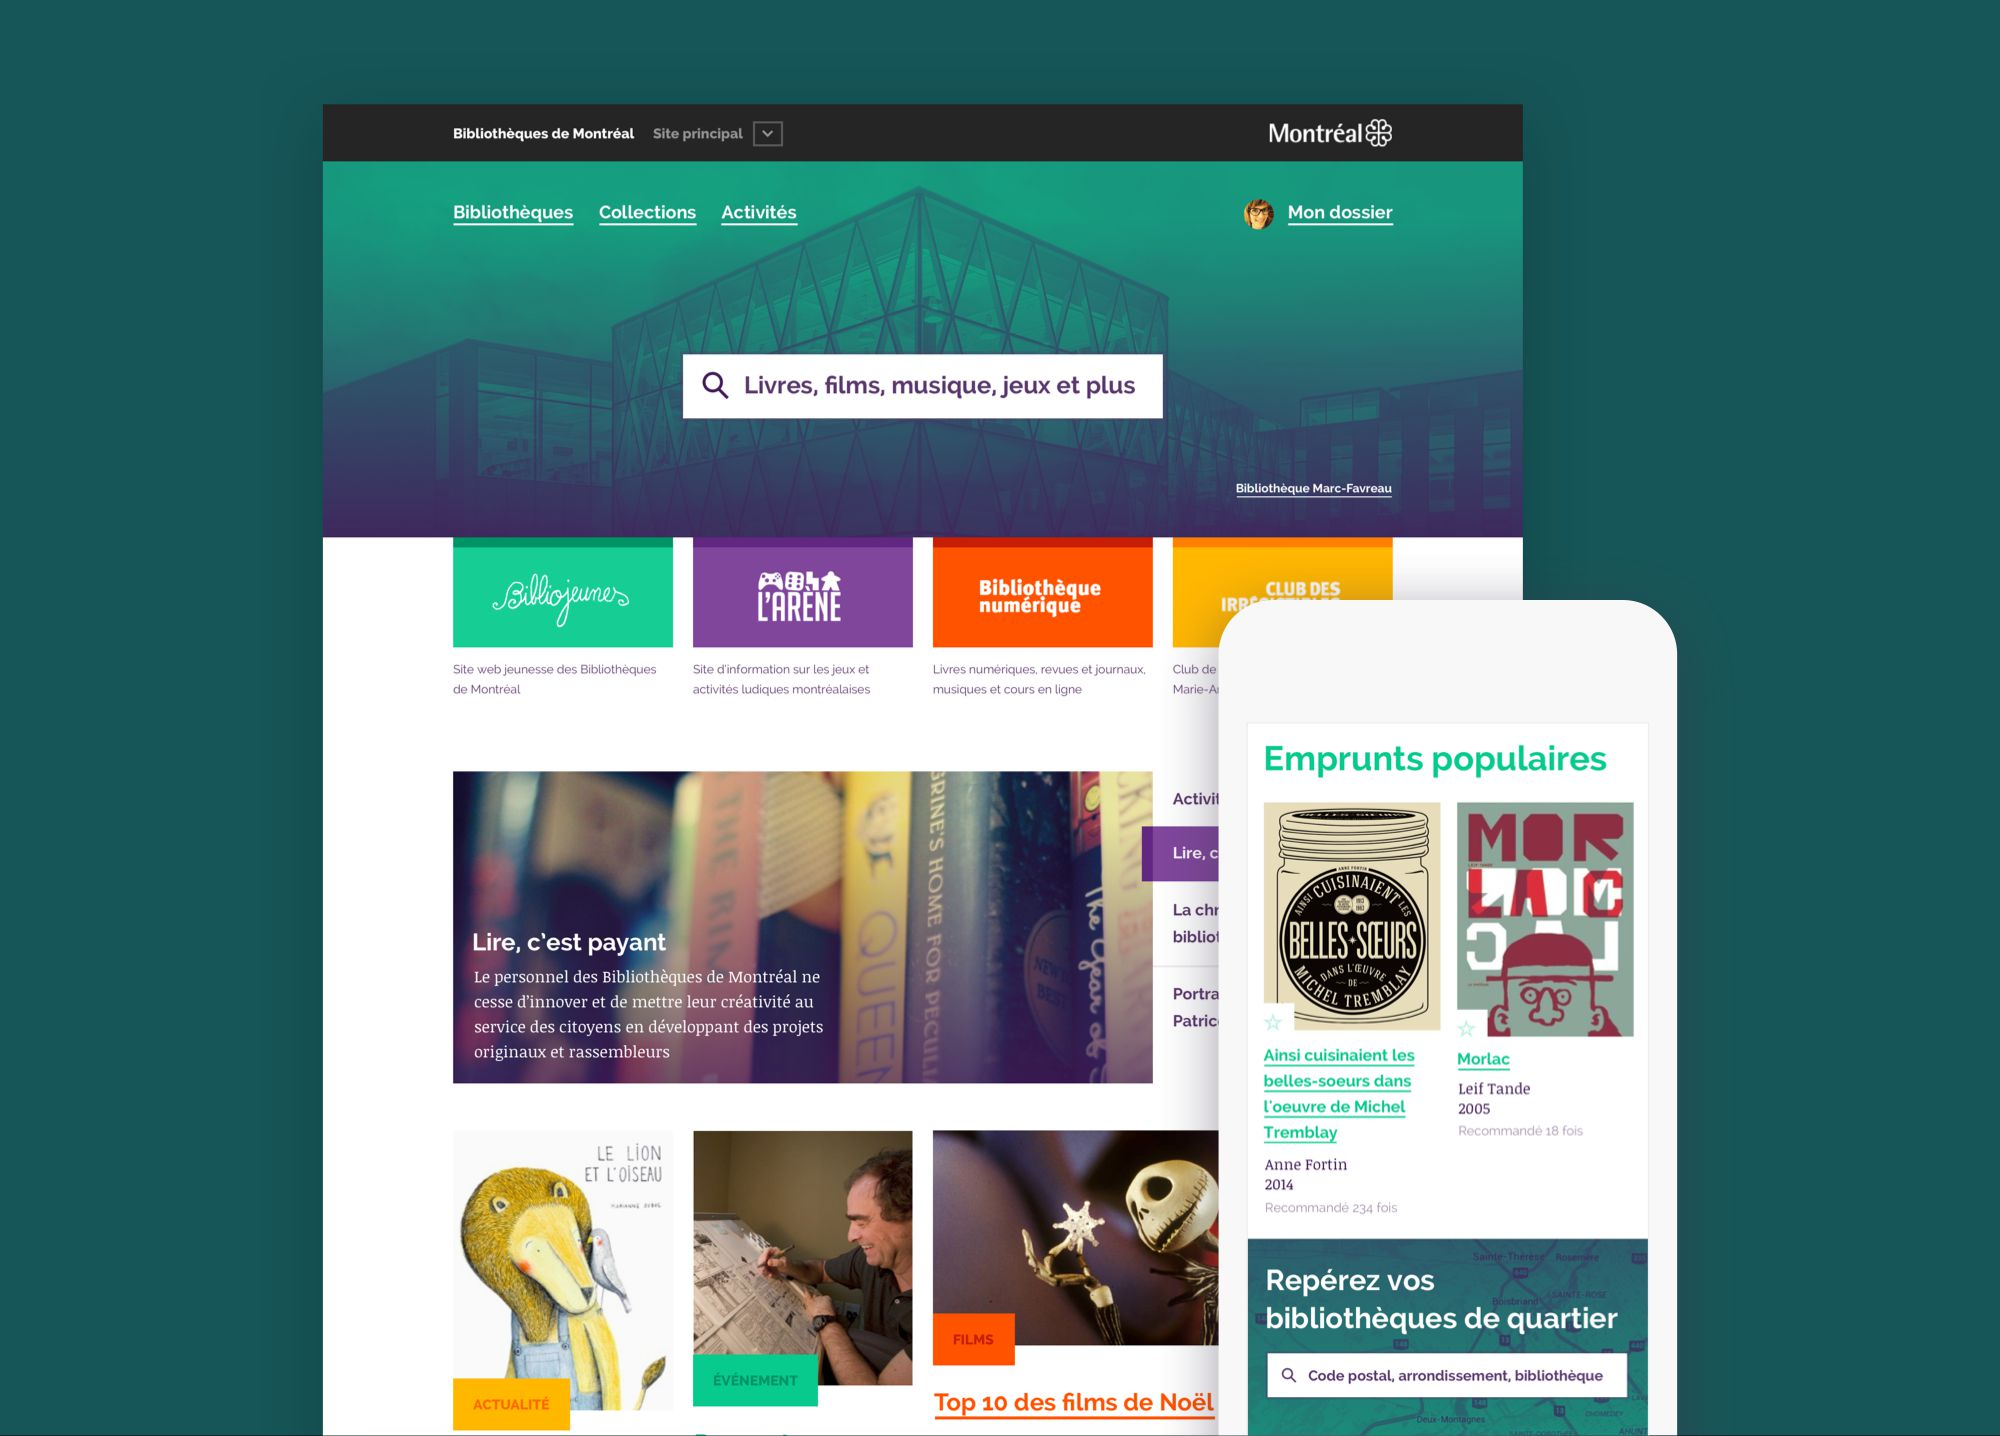
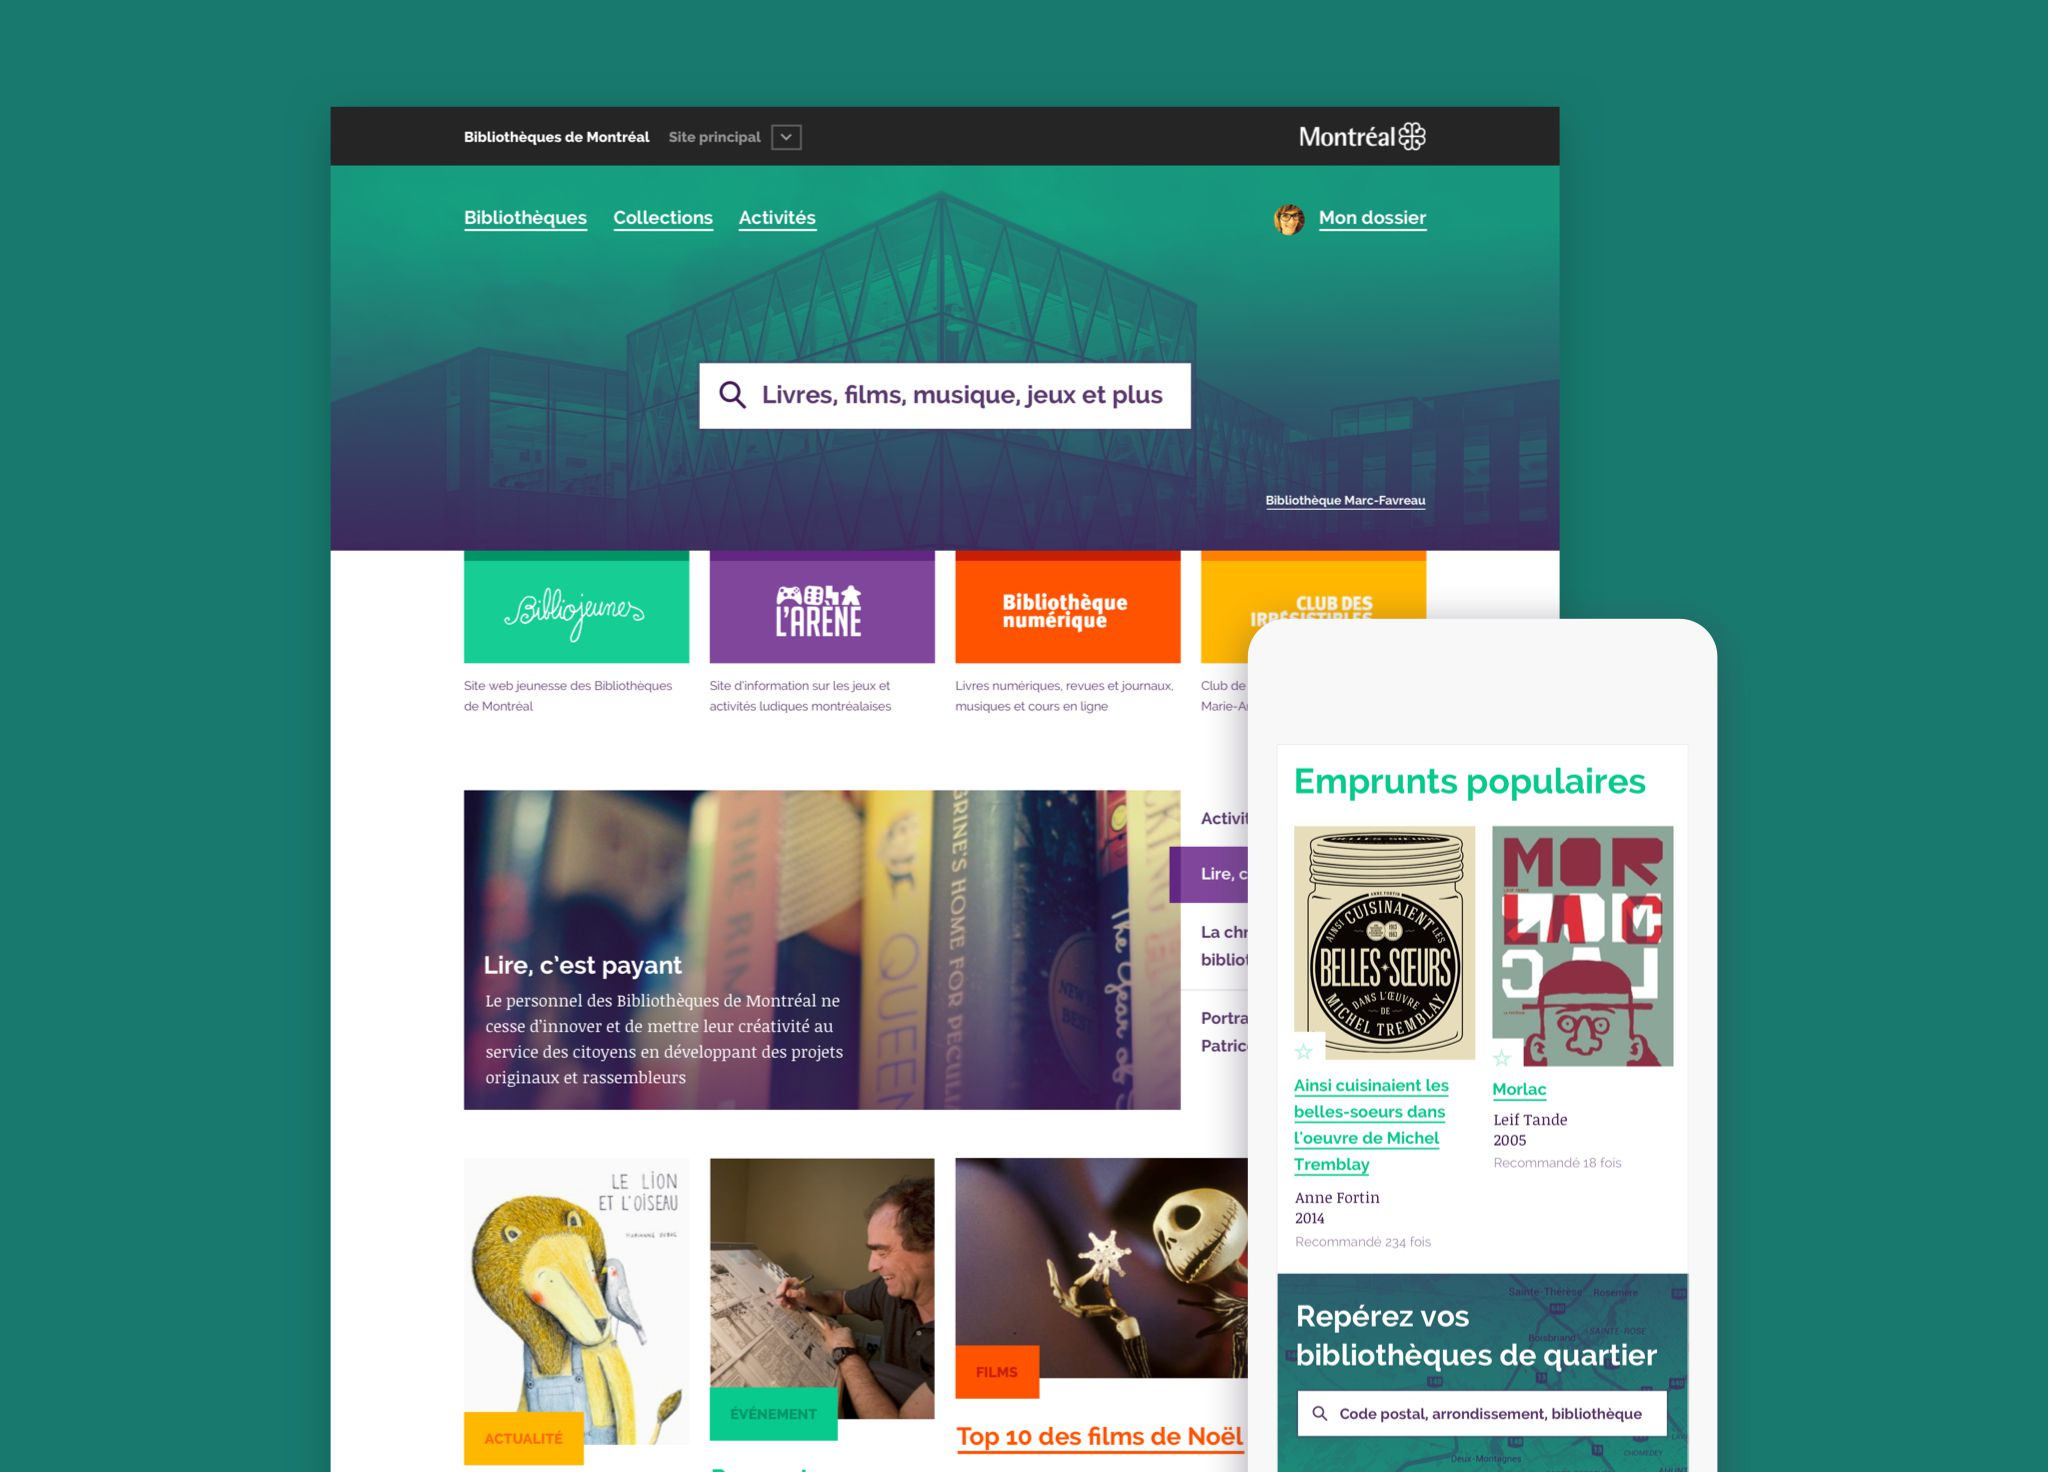
Ajustements à Bibliothèques de Montréal

diff --git a/_sass/projects/bibliotheques-de-montreal.scss b/_sass/projects/bibliotheques-de-montreal.scss
@@ -1,7 +1,7 @@
 body.bibliotheques-de-montreal {
-  background-color: #0C6769;
+  background-color: #198E7B;
 
   section.wide {
-    @include image-container(2000, 1436);
+    @include image-container(2048, 1472);
   }
 }
